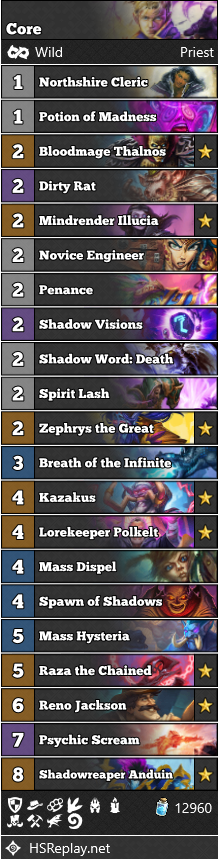
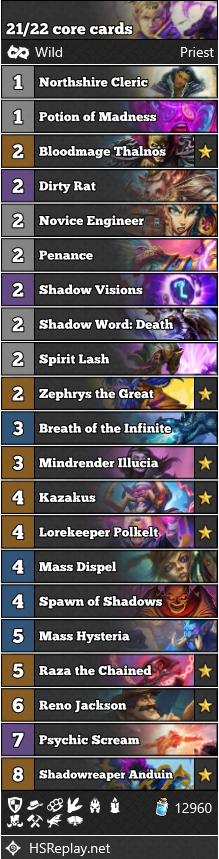
a

diff --git a/razakus/guide.md b/razakus/guide.md
@@ -5,15 +5,10 @@
 ## How to build the deck?
 ### Start by including all the core cards.
 This deck has 22 core cards.
-![Core cards](core.png)
-
-|For the 22th card you need to make a choice:|
-|:---:|
-|Forbidden Words|
-|Shadow Word: Pain|
+![Core cards](core.png) ![Core cards](core2.png)
 
 ### Choose your package
-After, choose a package. There are two packages right now: the normal and the dragon. Togwaggle and Gadgetzan  packages are okay but aren't the bests. Velen and Quest packages are not good in this meta.
+After, choose a package. There are two packages right now: the normal and the dragon. Togwaggle package is okay. Gadgetzan, Velen and Quest packages are not good in this meta.
 |Normal|Dragon|
 |:--:|:---:|
 |Raise Dead|Cleric of Scales|
@@ -34,7 +29,7 @@ After, choose a package. There are two packages right now: the normal and the dr
 |Add Loatheb|
 
 |Choose the last card in the normal version|why?|
-|:---|---:|
+|:---:|:---:|
 |Sphere of Sapience||
 |Mo'arg Artificier|Great with Holy Smite, Spirit Lash and Holy Nova, great vs Aggro|
 |Holy Nova|Great vs Aggro|
@@ -53,7 +48,7 @@ After, choose a package. There are two packages right now: the normal and the dr
 |Renew|Forbidden Words or Shadow Word: Pain|
 |Breath of the Infinite|           Draconic Studies           |
 |Gluttonous Ooze|          Twilight Guardian           |
-||Mass Hysteria or Dragonfire Potion|
+||Mass Hysteria (you can replace it with Dragonfire Potion, but you need at least one of those two cards)|
 
 ### Possible cards
 |Normal|Dragon|
@@ -71,6 +66,8 @@ The past versions of the normal deck had Dragonfire Potion or Soul Mirror. Now, 
 You can consider Brann Bronzebeard. If you do, you can consider Coldlight Oracle, Zola the Gorgon and/or Cobalt Spellkin too,
 
 You can consider Witchwood Piper: you need to remove every 1-mana and 2-mana minions but Zephrys the Great. It is not recommended if you see lot of aggro decks
+
+Skullking Geist is good versus Jade Druid but the deck is not that played in this meta right now.
 
 ## Building the deck: Budget to Final
 I recommend you to build the Dragon Budget version because dragons are cheap and strong.
@@ -211,7 +208,7 @@ Versus Combo: the 1 mana potion with draw and face damage or the add-a-random-de
 If Anduin and Polkelt are your last cards in your deck and you are playing versus Jade Druid or Cube Warlock, you should go for the 10 mana potion to control the board.
 
 How to count Spawn of Shadows damage?
-2 + 6(this is when you play Spawn of Shadows) + 6 for every other card you play. So, 6 times 5 = 30, 30+2 = 32. If you play Spawn of Shadows and four other cards you can make 32 damage.
+2 + 6 (this is when you play Spawn of Shadows) + 6 for every other card you play. So, 6 times 5 + 2 = 30 + 2 = 32. If you play Spawn of Shadows and four other cards you can make 32 damage.
 
 ## Deck codes
 ### Normal version
@@ -222,14 +219,7 @@ AAEBAa0GHvsBlwKcAu0F0wrWCtcK8gz6DvcTwxaDuwK1uwLYuwLRwQLfxALTxQLwzwLo0AKQ0wKXhwPm
[1 lines of base64/hex data omitted]
 ### Togwaggle version
 ![Togwaggle version](togwaggle.png)
-### Gadgetzan version
-![Gadgetzan version](gadgetzan.png)
-### Velen version
-![Velen version](velen.png)
-### Quest N'zoth version
-![Quest N'zoth version](questnzoth.png)
-### Quest version
-![Quest version](quest.png)
[1 lines of base64/hex data omitted]
 
 ## Contact
 You can contact me on my Twitter account.
